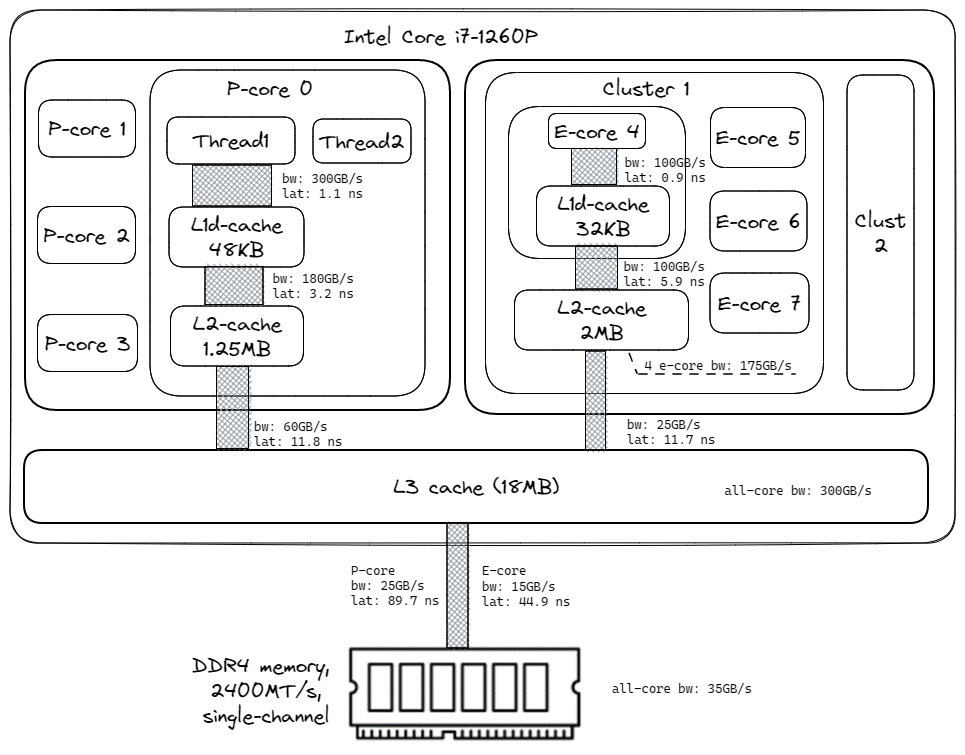
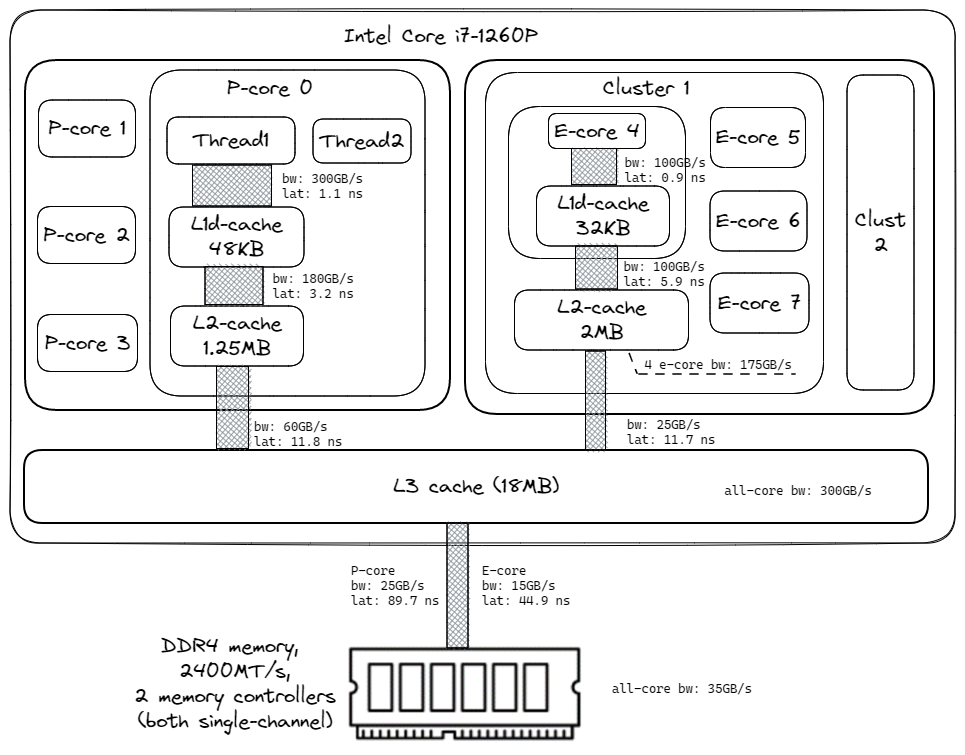
Wrote about memory channels

diff --git a/chapters/3-CPU-Microarchitecture/3-5 Memory Hierarchy.md b/chapters/3-CPU-Microarchitecture/3-5 Memory Hierarchy.md
@@ -79,23 +79,25 @@ Software memory prefetching complements the one done by the HW. Developers can s
 
 ### Main Memory
 
-Main memory is the next level of the hierarchy, downstream from the caches. Main memory uses DRAM (Dynamic Random Access Memory), technology that supports large capacities at reasonable cost points. When comparing DRAM modules, people usually look at memory density and memory speed, besides its price, of course. Memory density defines how much memory the module has, measured in GB. Obviously the more the better as it constitues the memory space available to the OS and applications.
+Main memory is the next level of the hierarchy, downstream from the caches. Requests to load and store data are initiated by the Memory Controller Unit (MCU). In the past, this circuit was located inside the motherboard chipset, in the north bridge chip. But nowadays, most processors have this component embedded, so the CPU has a dedicated memory bus connecting it to the main memory.
+
+Main memory uses DRAM (Dynamic Random Access Memory), technology that supports large capacities at reasonable cost points. When comparing DRAM modules, people usually look at memory density and memory speed, besides its price, of course. Memory density defines how much memory the module has, measured in GB. Obviously the more available memory the better as it is a precious resource used by the OS and applications.
 
 Performance of main memory is described by latency and bandwidth. Memory latency is the time elapsed between the memory access request is issued and when the data is available to use by CPU. Memory bandwidth defines how many bytes can be fetch per some period of time, usually measured in gigabytes per second.
 
 DDR (double data rate) DRAM technology is the predominant DRAM technology supported by most CPUs. Historically, DRAM bandwidths have improved every generation while the DRAM latencies have stayed the same or even increased. The table @tbl:mem_rate shows the top data rate, peak bandwidth, and the corresponding reading latency for the last three generations of DDR technologies. The data rate is measured as a million transfers per sec (MT/s). The latencies shown in this table correspond to the latency in the DRAM device itself. Typically, the latencies as seen from the CPU pipeline (cache miss on a load to use) are higher (in the 50ns-150ns range) due to additional latencies and queuing delays incurred in the cache controllers, memory controllers, and on-die interconnects. See an example of measuring observed memory latency and bandiwdth in [@sec:MemLatBw].
 
-----------------------------------------------------------------
-   DDR       Year   Highest Data   Peak Bandwidth  Typical Read
-Generation           Rate (MT/s)    (Gbytes/s)      Latency (ns)
-----------  ------  ------------   -------------   -------------
-  DDR3       2007      2133           12.8            10.3
+-----------------------------------------------------------------
+   DDR       Year   Highest Data   Peak Bandwidth  In-device Read
+Generation           Rate(MT/s)     (Gbytes/s)      Latency(ns)
+----------  ------  ------------   --------------  --------------
+  DDR3       2007      2133            12.8            10.3
 
-  DDR4       2014      3200           25.6            12.5
+  DDR4       2014      3200            25.6            12.5
 
-  DDR5       2020      6400           51.2            14
+  DDR5       2020      6400            51.2            14
 
-----------------------------------------------------------------
+-----------------------------------------------------------------
 
 Table: Performance characteristics for the last three generations of DDR technologies. {#tbl:mem_rate}
 
@@ -103,16 +105,31 @@ It is worth to mention that DRAM chips require memory cells being periodically r
 
 DRAM module is organized as sets of DRAM chips. Memory *rank* is a term that describes how many sets of DRAM chips exist on a module. For example, a single-rank (1R) memory module contains one set of DRAM chips. A dual-rank (2R) memory module has two sets of DRAM chips, therefore doubling the capacity of a single-rank module. Likewise, there are quad-rank (4R) and octa-rank (8R) memory modules available for purchase.
 
-Each set of memory chips consists of multiple chips. Memory *width* defines the width of the bus of each chip in a set and consequently, the number of chips in a set. Memory width can be one of three values: `x4`, `x8` or `x16`. As an example, figure @fig:Dram_ranks shows the organization of 2Rx16 dual-rank DRAM DDR4 module, total 2GB capacity. There are four chips in each set, with a 16-bit wide bus. Combined, the four chips provide 64-bit output. The two ranks are selected one at a time through a chip set select signal.
+Each set of memory chips consists of multiple chips. Memory *width* defines the width of the bus of each chip in a set and consequently, the number of chips in a set. Memory width can be one of three values: `x4`, `x8` or `x16`, which define how wide is the bus that goes to each chip. As an example, figure @fig:Dram_ranks shows the organization of 2Rx16 dual-rank DRAM DDR4 module, total 2GB capacity. There are four chips in each set, with a 16-bit wide bus. Combined, the four chips provide 64-bit output. The two ranks are selected one at a time through a chip set select signal.
 
 ![Organization of 2Rx16 dual-rank DRAM DDR4 module, total 2GB capacity.](../../img/uarch/DRAM_ranks.png){#fig:Dram_ranks width=80%}
 
 There is no direct answer whether performance of single-rank or dual-rank is better as it depends on the type of application. Switching from one rank to another through chip select signal needs additional clock cycles, which may increase the access latency. On the other hand, if a rank is not accessed, it can go through its refresh cycles in parallel while other ranks are busy. As soon as the previous rank completes data transmission, the next rank can immediately start its transmission. Also, single-rank modules produce less heat and are less likely to fail.
 
-[TODO]: describe memory channels
+Going further, we can install multiple DRAM modules in a system to not only increase memory capacity, but also memory bandwidth. Setups with multiple memory channels are used to scale up the communication speed between the memory controller and the DRAM.
+
+A system with a single memory channel has a 64-bit wide data bus between the DRAM and memory controller. The multi-channel architectures increase the width of the memory bus, allowing DRAM modules to be accessed simultaneously. For example, the dual-channel architecture expands the width of the memory data bus from 64 bit to 128 bit, doubling the available bandwidth, see figure @fig:Dram_channels. Notice, that each memory module, is still a 64-bit device, but we connect them differently. It is very typical nowadays for server machines to have four and eight memory channels. 
+
+![Organization of a dual-channel DRAM setup.](../../img/uarch/DRAM_channels.png){#fig:Dram_channels width=50%}
+
+Alternatively, you could also encounter setups with duplicated memory controllers. For example, a processor may have two integrated memory controllers, each of them capable of supporting several memory channels. The two controllers are independent and only view their own slice of the total physical memory address space.
+
+We can do a quick calculations to determine the maximum memory bandwidth for a given memory technology, using a simple formula below:
+$$
+\textrm{Max. Memory Bandwidth} = \textrm{Data Rate } \times \textrm{ Bytes per cycle }
+$$
+
+For example, for a single-channel DDR4 configuration, the data rate is `2400 MT/s` and 64 bits or 8 bytes can be transfered each memory cycle, thus the maximum bandiwdth equals to `2400 * 8 = 19.2 GB/s`. Dual-channel or dual memory controller setups double the bandwidth to `38.4 GB/s`. Remember though, that those numbers are theoretical maximums, that assume that a data transfer will occur at each memory clock cycle, which in fact never happens in practice. So, when measuring actual memory speed, you will always see a value lower than the maximum theoretical transfer bandwidth. 
+
+In order to enable multi-channel configuration, you need to have a CPU and a motherboard that supports such architecture and install an even number of identical memory modules in the correct memory slots on the motherboard. The quickest way to check the setup is by running a hardware identification utility like `CPU-Z` or `HwInfo`. But also, you can run the memory bandwidth benchmarks like Intel `mlc` or `Stream`.
+
+While increased memory bandwidth is generally good, it does not always translate into increased system performance and is highly dependent on the application.
 
 [TODO]: describe HBM
 
 New DRAM technologies such as GDDR (Graphics DDR) and HBM (High Bandwidth Memory) are used by custom processors that require higher bandwidth, not supported by DDR interfaces.
-
-Modern CPUs support multiple, independent channels of DDR DRAM memory. Typically, each channel of memory is either 32-bit or 64-bit wide.
